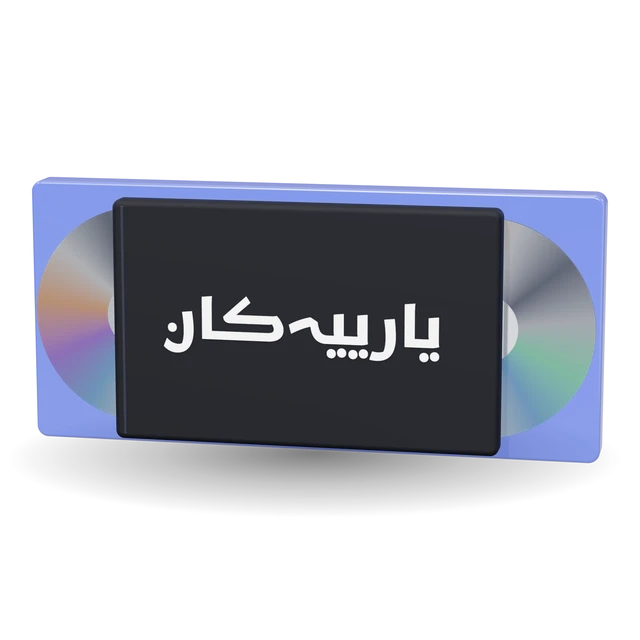
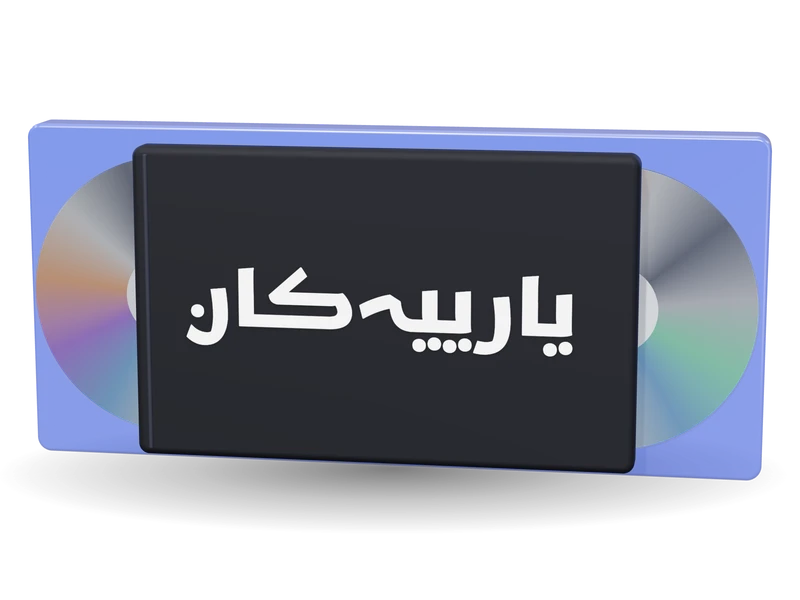
Home doors: remodelled gamepad and console, larger titles, 4:3 frames
The gamepad is one sculpted white body with a black stick bridge; the console
is two white plates over a glossy black core. Titles are larger and bolder on
every object, and the renders are 4:3 so the wide objects fill their doors
(phones: 172px doors; the row is shorter on laptops).

diff --git a/scripts/home-doors/studio.js b/scripts/home-doors/studio.js
@@ -7,7 +7,9 @@ import { RoundedBoxGeometry } from "three/addons/geometries/RoundedBoxGeometry.j
 import { RoomEnvironment } from "three/addons/environments/RoomEnvironment.js";
 import { RectAreaLightUniformsLib } from "three/addons/lights/RectAreaLightUniformsLib.js";
 
-const SIZE = 1024;
+const W = 1200;
+const H = 900;
+const ASPECT = W / H;
 const LABELS = {
   ar: { devices: "أجهزة الألعاب", games: "الألعاب", controllers: "أيدي التحكم", headsets: "سماعات الرأس", accessories: "الإكسسوارات", topup: "بطاقات الشحن", used: "المستعمل", repair: "الصيانة" },
   en: { devices: "Consoles", games: "Games", controllers: "Controllers", headsets: "Headsets", accessories: "Accessories", topup: "Gift cards", used: "Used", repair: "Repair" },
@@ -18,7 +20,7 @@ const FONT = '"KufamLatin", "KufamArabic", "KufamArabicExt", sans-serif';
 // ───────────────────────────── renderer, camera
 const renderer = new THREE.WebGLRenderer({ antialias: true, alpha: true, preserveDrawingBuffer: true });
 renderer.setPixelRatio(2);
-renderer.setSize(SIZE, SIZE);
+renderer.setSize(W, H);
 renderer.setClearColor(0x000000, 0);
 renderer.toneMapping = THREE.ACESFilmicToneMapping;
 renderer.toneMappingExposure = 1.0;
@@ -28,11 +30,11 @@ renderer.shadowMap.type = THREE.PCFSoftShadowMap;
 document.body.appendChild(renderer.domElement);
 RectAreaLightUniformsLib.init();
 
-// a long lens, a little above the object: the frame is 2 × 2 world units at the origin
+// a long lens, a little above the object: the frame is 2.67 × 2 world units at the origin
 const FOV = 16;
 const ELEVATION = THREE.MathUtils.degToRad(11);
 const DIST = 1 / Math.tan(THREE.MathUtils.degToRad(FOV / 2));
-const camera = new THREE.PerspectiveCamera(FOV, 1, 0.1, 50);
+const camera = new THREE.PerspectiveCamera(FOV, ASPECT, 0.1, 50);
 camera.position.set(0, DIST * Math.sin(ELEVATION), DIST * Math.cos(ELEVATION));
 camera.lookAt(0, 0, 0);
 camera.updateMatrixWorld();
@@ -135,6 +137,17 @@ function slab(w, h, d, r, mat, bevel = 0.022) {
   geo.translate(0, 0, -(d - 2 * b) / 2);
   return solid(new THREE.Mesh(geo, mat));
 }
+/** A body extruded from a symmetric outline: `half` draws the right half from the top centre to the bottom centre. */
+function sculpt(half, depth, bevel, mat) {
+  const right = new THREE.Shape();
+  half(right);
+  const pts = right.getPoints(48);
+  const all = [...pts, ...pts.slice(1, -1).reverse().map((q) => new THREE.Vector2(-q.x, q.y))];
+  const geo = new THREE.ExtrudeGeometry(new THREE.Shape(all), { depth, bevelEnabled: true, bevelThickness: bevel, bevelSize: bevel * 0.8, bevelSegments: 14, curveSegments: 48 });
+  geo.translate(0, 0, -depth / 2);
+  geo.computeVertexNormals();
+  return solid(new THREE.Mesh(geo, mat));
+}
 /** A disc facing the camera (axis z). */
 function disc(r, h, mat, seg = 64) {
   const m = solid(new THREE.Mesh(new THREE.CylinderGeometry(r, r, h, seg), mat));
@@ -178,12 +191,12 @@ function labelPlane(text, lang, width, height, opts = {}) {
   g.direction = lang === "en" ? "ltr" : "rtl";
   g.textAlign = "center";
   g.textBaseline = "alphabetic";
-  const maxW = W * (opts.fitW ?? 0.82);
-  const maxH = H * (opts.fitH ?? 0.52);
+  const maxW = W * (opts.fitW ?? 0.86);
+  const maxH = H * (opts.fitH ?? 0.6);
   let size = maxH;
   let box;
   for (;;) {
-    g.font = `700 ${size}px ${FONT}`;
+    g.font = `800 ${size}px ${FONT}`;
     const m = g.measureText(text);
     box = { w: m.width, up: m.actualBoundingBoxAscent, down: m.actualBoundingBoxDescent };
     if ((box.w <= maxW && box.up + box.down <= maxH * 1.25) || size < 40) break;
@@ -213,47 +226,46 @@ function titledPanel(text, lang, w, h, d, r, mat, labelOpts) {
 
 // ───────────────────────────── the eight objects (each returns a whole object, built around the origin)
 const BUILD = {
-  /** A gamepad: white grips with sticks, d-pad and buttons; the touch panel carries the name. */
+  /** A gamepad: one sculpted white body with grips, sticks on a black bridge, d-pad and buttons; the touch panel carries the name. */
   controllers(text, lang) {
     const o = new THREE.Group();
-    // the dark middle of the pad, behind the panel
-    o.add(at(slab(1.66, 1.0, 0.3, 0.34, M.matte("#15161b")), 0, -0.1, -0.08));
+    const body = sculpt((sh) => {
+      sh.moveTo(0, 0.5);
+      sh.bezierCurveTo(0.5, 0.52, 0.86, 0.58, 1.06, 0.4);
+      sh.bezierCurveTo(1.24, 0.24, 1.22, -0.2, 1.16, -0.52);
+      sh.bezierCurveTo(1.1, -0.86, 0.84, -0.92, 0.74, -0.7);
+      sh.bezierCurveTo(0.66, -0.5, 0.56, -0.3, 0.34, -0.28);
+      sh.lineTo(0, -0.28);
+    }, 0.16, 0.1, M.white());
+    o.add(at(body, 0, 0, -0.08));
+    // the black bridge with the two sticks
+    o.add(at(slab(1.02, 0.36, 0.1, 0.17, M.gloss()), 0, -0.16, 0.08));
     for (const s of [-1, 1]) {
-      const shell = ball(0.46, M.white());
-      shell.scale.set(0.92, 1.0, 0.5);
-      o.add(at(shell, s * 0.9, 0.04, -0.1));
-      const horn = solid(new THREE.Mesh(new THREE.CapsuleGeometry(0.2, 0.46, 16, 32), M.white()));
-      horn.rotation.z = s * 0.3;
-      horn.scale.z = 0.78;
-      o.add(at(horn, s * 0.98, -0.46, -0.13));
-      o.add(at(stick(0.86), s * 0.5, -0.38, 0.07));
-      // shoulder buttons
-      o.add(at(rbox(0.3, 0.09, 0.16, 0.04, M.gloss()), s * 0.82, 0.46, -0.14));
+      o.add(at(stick(0.78), s * 0.31, -0.16, 0.13));
+      o.add(at(rbox(0.34, 0.08, 0.14, 0.035, M.gloss()), s * 0.78, 0.55, -0.12));
     }
-    for (const [dx, dy] of [[0, 0.07], [0, -0.07], [0.07, 0], [-0.07, 0]]) {
-      o.add(at(rbox(0.058, 0.058, 0.03, 0.012, M.gloss()), -1.0 + dx, 0.12 + dy, 0.12));
-      o.add(at(disc(0.03, 0.03, M.gloss()), 1.0 + dx, 0.12 + dy, 0.12));
+    for (const [dx, dy] of [[0, 0.075], [0, -0.075], [0.075, 0], [-0.075, 0]]) {
+      o.add(at(rbox(0.062, 0.062, 0.04, 0.014, M.gloss()), -0.93 + dx, 0.2 + dy, 0.11));
+      o.add(at(disc(0.034, 0.04, M.gloss()), 0.93 + dx, 0.2 + dy, 0.11));
     }
-    o.add(at(slab(1.545, 0.6, 0.16, 0.21, M.glow("#1f55ff", 1.5)), 0, 0.08, 0.0));
-    o.add(at(titledPanel(text, lang, 1.5, 0.555, 0.2, 0.2, M.panel()), 0, 0.08, 0.03));
+    o.add(at(slab(1.47, 0.5, 0.1, 0.17, M.glow("#1f55ff", 1.6)), 0, 0.24, 0.07));
+    o.add(at(titledPanel(text, lang, 1.43, 0.46, 0.14, 0.16, M.panel()), 0, 0.24, 0.09));
     return o;
   },
 
-  /** A home console lying flat: white shells, blue light strips, a glossy black body. */
+  /** A home console lying flat: two white plates flare over a glossy black core that carries the name, a blue light line between. */
   devices(text, lang) {
     const o = new THREE.Group();
     for (const s of [-1, 1]) {
-      const shell = slab(0.42, 0.96, 0.62, 0.2, M.white(), 0.05);
-      shell.rotation.z = s * -0.04;
-      o.add(at(shell, s * 0.97, 0, -0.06));
-      o.add(at(rbox(0.035, 0.6, 0.34, 0.015, M.glow("#1f6bff", 1.8)), s * 0.805, 0, 0.03));
+      const plate = slab(2.02, 0.15, 0.62, 0.075, M.white(), 0.045);
+      o.add(at(plate, 0, s * 0.435, -0.04));
+      o.add(at(rbox(1.72, 0.018, 0.5, 0.008, M.glow("#1f6bff", 2.0)), 0, s * 0.345, -0.02));
     }
-    o.add(at(slab(1.78, 0.8, 0.44, 0.3, M.matte("#191a20")), 0, 0, -0.08));
-    // disc slot and two small ports
-    o.add(at(rbox(0.36, 0.014, 0.02, 0.006, M.matte("#30323a")), -0.44, 0.365, 0.14));
-    o.add(at(rbox(0.05, 0.02, 0.02, 0.006, M.steel()), 0.5, 0.365, 0.14));
-    o.add(at(rbox(0.05, 0.02, 0.02, 0.006, M.steel()), 0.6, 0.365, 0.14));
-    o.add(at(titledPanel(text, lang, 1.56, 0.62, 0.3, 0.26, M.gloss()), 0, -0.02, 0.08));
+    o.add(at(slab(1.86, 0.7, 0.5, 0.12, M.matte("#15161b")), 0, 0, -0.06));
+    o.add(at(rbox(0.3, 0.012, 0.02, 0.005, M.matte("#3a3c44")), -0.62, 0.305, 0.2));
+    o.add(at(rbox(0.045, 0.018, 0.02, 0.006, M.steel()), 0.6, 0.305, 0.2));
+    o.add(at(rbox(0.045, 0.018, 0.02, 0.006, M.steel()), 0.69, 0.305, 0.2));
+    o.add(at(titledPanel(text, lang, 1.8, 0.56, 0.3, 0.1, M.gloss(), { fitW: 0.84, fitH: 0.62 }), 0, -0.02, 0.07));
     return o;
   },
 
@@ -278,7 +290,7 @@ const BUILD = {
       o.add(at(disc(0.12, 0.014, M.steel()), s * 0.6, 0, -0.016));
       o.add(at(disc(0.042, 0.02, M.gloss()), s * 0.6, 0, -0.012));
     }
-    o.add(at(titledPanel(text, lang, 1.34, 0.84, 0.09, 0.03, M.matte("#191a20"), { fitW: 0.74, fitH: 0.4 }), 0, 0, 0.05));
+    o.add(at(titledPanel(text, lang, 1.34, 0.84, 0.09, 0.03, M.matte("#191a20"), { fitW: 0.8, fitH: 0.46 }), 0, 0, 0.05));
     o.add(at(rbox(0.012, 0.8, 0.095, 0.004, M.matte("#2f313a")), -0.63, 0, 0.055));
     return o;
   },
@@ -305,7 +317,7 @@ const BUILD = {
       ring.scale.set(1, 1.15, 1);
       o.add(at(ring, s * 1.07, -0.2, -0.06));
     }
-    o.add(at(titledPanel(text, lang, 1.6, 0.54, 0.22, 0.2, M.panel()), 0, -0.2, 0.08));
+    o.add(at(titledPanel(text, lang, 1.66, 0.6, 0.22, 0.22, M.panel()), 0, -0.2, 0.08));
     return o;
   },
 
@@ -319,7 +331,7 @@ const BUILD = {
     const grip = arch(0.34, 0.068, 0.8, Math.PI - 0.8, M.red());
     grip.scale.y = 0.72;
     o.add(at(grip, 0, 0.46, -0.1));
-    o.add(at(titledPanel(text, lang, 1.8, 0.88, 0.36, 0.29, M.fabric(), { fitW: 0.78, fitH: 0.3 }), 0, 0.02, 0));
+    o.add(at(titledPanel(text, lang, 1.8, 0.88, 0.36, 0.29, M.fabric(), { fitW: 0.82, fitH: 0.36 }), 0, 0.02, 0));
     // the cable, its strap and its plug
     for (const y of [-0.26, -0.31]) {
       const curve = new THREE.CatmullRomCurve3([new THREE.Vector3(-0.66, y, 0.2), new THREE.Vector3(-0.2, y - 0.012, 0.205), new THREE.Vector3(0.25, y - 0.004, 0.205), new THREE.Vector3(0.6, y, 0.2)]);
@@ -343,7 +355,7 @@ const BUILD = {
       back.rotation.z = s * -0.13;
       o.add(at(back, s * 0.3, 0.07, -0.12 - (s > 0 ? 0.05 : 0)));
     }
-    o.add(at(titledPanel(text, lang, 1.42, 0.9, 0.05, 0.09, M.panel(), { fitW: 0.8, fitH: 0.34 }), 0, -0.06, 0.02));
+    o.add(at(titledPanel(text, lang, 1.42, 0.9, 0.05, 0.09, M.panel(), { fitW: 0.86, fitH: 0.42 }), 0, -0.06, 0.02));
     return o;
   },
 
@@ -358,7 +370,7 @@ const BUILD = {
       for (const [dx, dy] of [[0, 0.06], [0, -0.06], [0.06, 0], [-0.06, 0]]) o.add(at(disc(0.026, 0.03, M.gloss()), s * 0.93 + dx, cy + dy, 0.06));
       o.add(at(rbox(0.26, 0.05, 0.12, 0.02, M.gloss()), s * 0.9, 0.46, -0.05));
     }
-    o.add(at(titledPanel(text, lang, 1.4, 0.76, 0.1, 0.04, M.gloss(), { fitW: 0.74, fitH: 0.36 }), 0, 0, 0.02));
+    o.add(at(titledPanel(text, lang, 1.4, 0.76, 0.1, 0.04, M.gloss(), { fitW: 0.8, fitH: 0.44 }), 0, 0, 0.02));
     // the inspection tick: a green enamel seal on the corner of the screen (no words)
     const c = document.createElement("canvas");
     c.width = c.height = 256;
@@ -413,14 +425,14 @@ const BUILD = {
     const bar = rbox(0.07, 0.44, 0.03, 0.012, M.steel());
     bar.rotation.z = -0.2;
     o.add(at(bar, 0.69, 0.45, -0.32));
-    o.add(at(titledPanel(text, lang, 1.4, 0.54, 0.12, 0.2, M.panel()), 0, -0.12, 0.06));
+    o.add(at(titledPanel(text, lang, 1.5, 0.6, 0.12, 0.2, M.panel()), 0, -0.12, 0.06));
     return o;
   },
 };
 
 // ───────────────────────────── framing: the whole object inside the picture, nothing cut
-const TURN = -0.2; // a slight three-quarter turn, so the depth reads
-const MARGIN = 0.9; // the object fills 90% of the frame's width or height
+const TURN = -0.16; // a slight three-quarter turn, so the depth reads
+const MARGIN = 0.93; // the object fills 90% of the frame's width or height
 
 function ndcBounds(object) {
   object.updateMatrixWorld(true);
@@ -445,7 +457,7 @@ function fit(object) {
     const half = Math.max((b.max.x - b.min.x) / 2, (b.max.y - b.min.y) / 2);
     object.scale.multiplyScalar(MARGIN / half);
     const b2 = ndcBounds(object);
-    object.position.addScaledVector(RIGHT, -(b2.max.x + b2.min.x) / 2);
+    object.position.addScaledVector(RIGHT, (-(b2.max.x + b2.min.x) / 2) * ASPECT);
     object.position.addScaledVector(UP, -(b2.max.y + b2.min.y) / 2);
   }
 }

diff --git a/app/routes/storefront/home/home.css b/app/routes/storefront/home/home.css
@@ -569,13 +569,13 @@
   /* ───────────────────────────── the department doors under the hero ─────────────────────────────
    * Owner 2026-11-20: only the three.js object — no tile, no ground, no border. Each door is a transparent render of
    * a whole product (nothing cut at the edges) whose own dark panel carries the department's name, standing on the
-   * page's floor in both themes with its own soft contact shadow. Below 1024: one scrolling row (148px doors, the
-   * third peeks on a 390px phone; 164px from 768). From 1024 every door shares the row. */
+   * page's floor in both themes with its own soft contact shadow. Below 1024: one scrolling row of 4:3 doors (172px wide, the
+   * third peeks on a 390px phone; 196px from 768). From 1024 every door shares the row. */
   .home-strip__list {
     display: grid;
     grid-auto-flow: column;
-    grid-auto-columns: 148px;
-    gap: 6px;
+    grid-auto-columns: 172px;
+    gap: 4px;
     margin-inline: calc(-1 * var(--gutter));
     padding: 4px var(--gutter) 12px;
     overflow-x: auto;
@@ -592,7 +592,7 @@
   }
   @media (min-width: 48rem) {
     .home-strip__list {
-      grid-auto-columns: 164px;
+      grid-auto-columns: 196px;
       gap: var(--s-2);
     }
   }
@@ -606,7 +606,7 @@
   }
   .home-door {
     display: block;
-    aspect-ratio: 1;
+    aspect-ratio: 4 / 3;
     border-radius: var(--r-lg);
   }
   .home-door:focus-visible {

diff --git a/tests/home.test.ts b/tests/home.test.ts
@@ -1059,12 +1059,12 @@ describe("the home page's stylesheet: laptops' first screen, dark glass, the pho
   // owner 2026-11-20: only the three.js object — a transparent render, no tile, ground or border behind it
   it("the department doors are bare three.js renders: no tile behind the object, the whole picture shown", () => {
     const door = block("", ".home-door");
-    expect(door).toMatch(/aspect-ratio:\s*1/);
+    expect(door).toMatch(/aspect-ratio:\s*4 \/ 3/);
     expect(door).not.toMatch(/background|box-shadow|overflow/);
     expect(block("", ".home-door__icon")).toMatch(/object-fit:\s*contain/);
     expect(css).not.toMatch(/home-door__label/);
-    // phones scroll one row of 148px doors; from 1024 they share the row; the platform tiles still follow closely
-    expect(block("", ".home-strip__list")).toMatch(/grid-auto-columns:\s*148px/);
+    // phones scroll one row of 172px doors; from 1024 they share the row; the platform tiles still follow closely
+    expect(block("", ".home-strip__list")).toMatch(/grid-auto-columns:\s*172px/);
     expect(block("@media (min-width: 64rem)", ".home-strip__list")).toMatch(/grid-auto-columns:\s*minmax\(0, 1fr\)/);
     expect(block("@media (min-width: 64rem)", ".home-top + .home-platforms")).toMatch(/margin-block-start:\s*calc\(var\(--s-8\) - var\(--gap-section\)\)/);
     expect(css).not.toMatch(/home-hero__(light|spill|ambient)/);

diff --git a/app/routes/storefront/home/Shelves.tsx b/app/routes/storefront/home/Shelves.tsx
@@ -87,7 +87,7 @@ export function CategoryStrip({ items }: { items: readonly StripItem[] }) {
         {items.map((item) => (
           <li key={item.key} className="grid">
             <LocaleLink to={item.href} className="home-door" data-press="soft">
-              <img src={stripIcon(item.key, locale)} alt={t(`strip.${item.key}`)} width={640} height={640} decoding="async" className="home-door__icon" />
+              <img src={stripIcon(item.key, locale)} alt={t(`strip.${item.key}`)} width={800} height={600} decoding="async" className="home-door__icon" />
             </LocaleLink>
           </li>
         ))}
